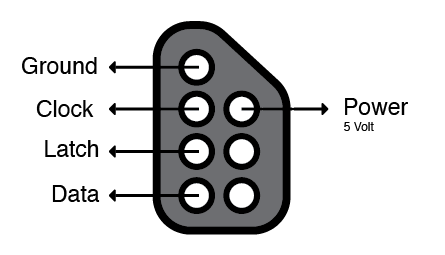
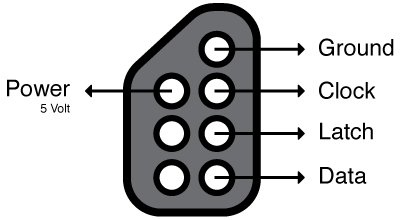
Updated Examples, Readme and the schematics image.

Changed region(s): [[0.0, 0.0, 0.99, 1.0]]

diff --git a/examples/twoControllers.js b/examples/twoControllers.js
@@ -1,0 +1,39 @@
+var Nes = require('arduino-nes');
+
+var nes = new Nes({
+	serial: "/dev/tty.usbmodem1d1131", // Make sure this is set to your port!
+	controllers:[
+		{
+			clock: 2,
+			latch: 3,
+			data: 4
+		},
+		{
+			clock: 5,
+			latch: 6,
+			data: 7
+		}
+	]
+});
+
+nes.on('error', function(){
+	console.log('error', arguments);
+}).on('ready', function(){
+	console.log('ready', arguments);
+}).on('connected', function(){
+	console.log('connected', arguments);
+}).on('disconnect', function(){
+	console.log('disconnect', arguments);
+});
+
+// Listen for all event from the first controller.
+Nes.controllers[0].on('*', function(event){
+	console.log('Controller 1: You just fired the ' + event + ' event');
+	// Do something.
+});
+
+// Listen for all event from the second controller.
+Nes.controllers[0].on('*', function(event){
+	console.log('Controller 2: You just fired the ' + event + ' event');
+	// Do something.
+});

diff --git a/examples/oneController.js b/examples/oneController.js
@@ -1,0 +1,28 @@
+var Nes = require('arduino-nes');
+
+var nes = new Nes({
+	serial: "/dev/tty.usbmodem1d1131", // Make sure this is set to your port!
+	controllers:[
+		{
+			clock: 2,
+			latch: 3,
+			data: 4
+		}
+	]
+});
+
+nes.on('error', function(){
+	console.log('error', arguments);
+}).on('ready', function(){
+	console.log('ready', arguments);
+}).on('connected', function(){
+	console.log('connected', arguments);
+}).on('disconnect', function(){
+	console.log('disconnect', arguments);
+});
+
+// Listen for all event from the first controller.
+Nes.controllers[0].on('*', function(event){
+	console.log('Controller 1: You just fired the ' + event + ' event');
+	// Do something.
+});

diff --git a/README.md b/README.md
@@ -132,13 +132,35 @@ When a button of a controller is pressed or released the controller will emit an
 
 ```js
 
-var ArduinoNes = require('arduino-nes');
-var Nes = new ArduinoNes({
-	serial: "/dev/tty.usbmodem1d1111",
-	numberOfControllers: 1, // or 2
+var Nes = require('arduino-nes');
+
+var nes = new Nes({
+	serial: "/dev/tty.usbmodem1d1131", // Make sure this is set to your port!
+	controllers:[
+		{
+			clock: 2,
+			latch: 3,
+			data: 4
+		}
+	]
 });
 
-// When the down button is pressed!
+nes.on('error', function(){
+	console.log('error', arguments);
+}).on('ready', function(){
+	console.log('ready', arguments);
+}).on('connected', function(){
+	console.log('connected', arguments);
+}).on('disconnect', function(){
+	console.log('disconnect', arguments);
+});
+
+// The first controller.
+nes.controller[0].on('*', function(event){
+	console.log('controller 0:', event);
+})
+
+// When the down button is released.
 Nes.controllers[0].on('down', function(){
 	// Do something.
 });
@@ -152,20 +174,5 @@ Nes.controllers[0].on('downReleased', function(){
 Nes.controllers[0].on('*', function(event){
 	// Do something.
 });
-
-// Get all the buttons states.
-var states = Nes.controllers[0].getStates();
-/*
-{
-	left: false,
-	right: false,
-	down: true',
-	up: false,
-	start: false,
-	select: false,
-	a: false,
-	b: true
-}
-*/
 
 ```
